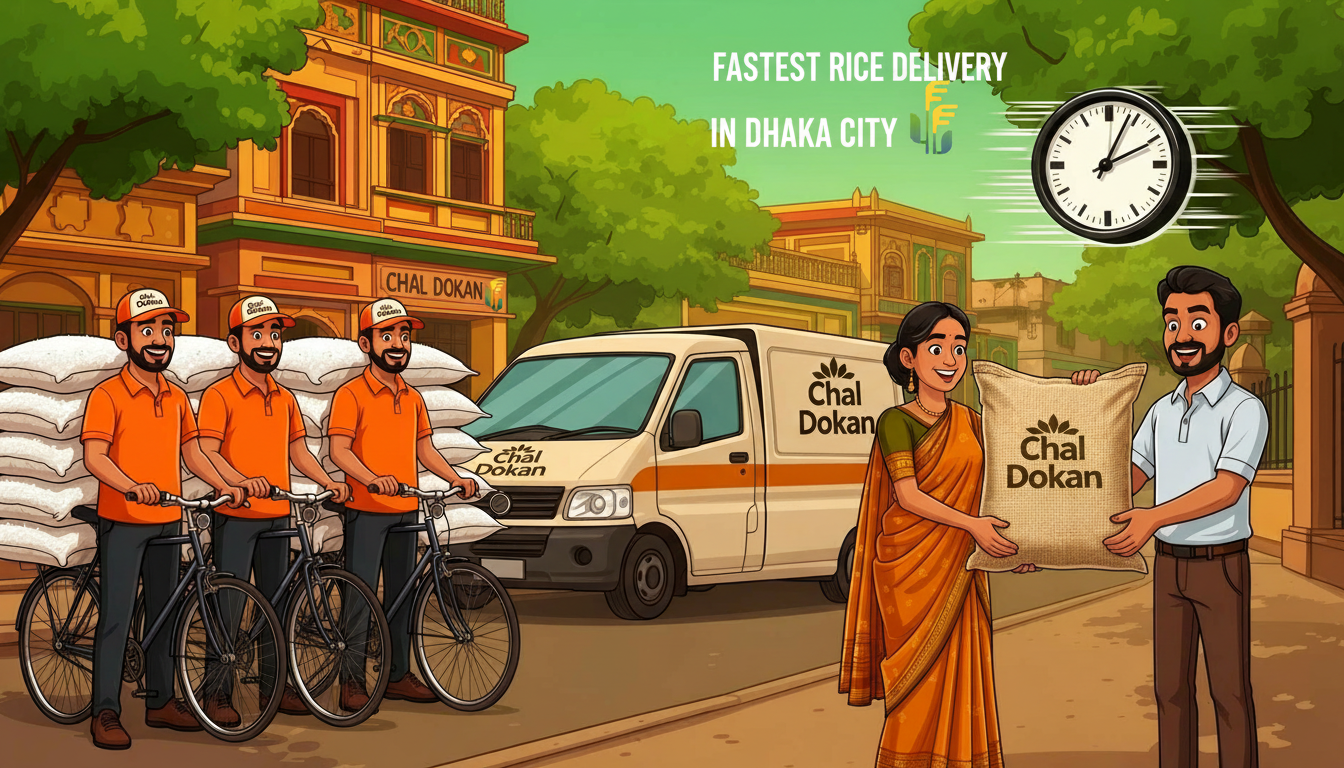
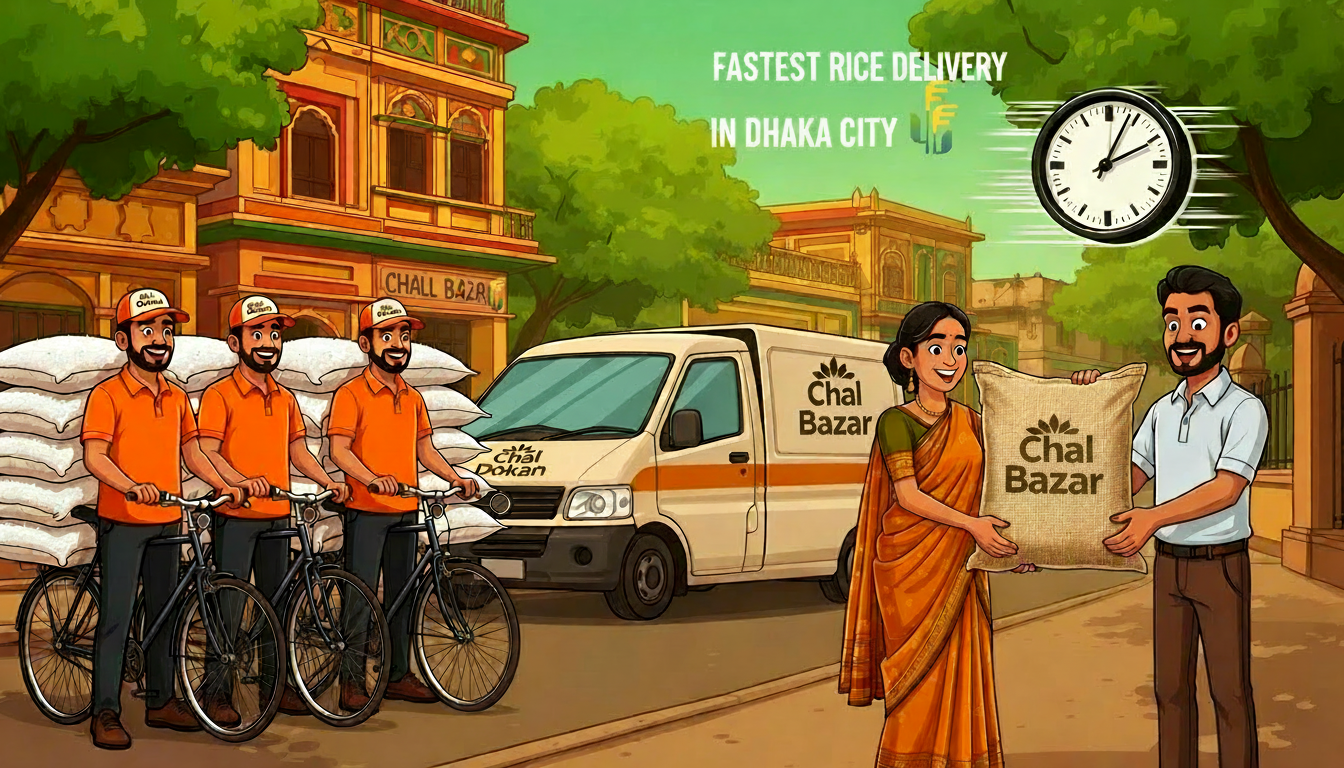
Changes

diff --git a/index.html b/index.html
@@ -4,9 +4,9 @@
     <meta charset="UTF-8" />
     <meta name="viewport" content="width=device-width, initial-scale=1.0" />
     <!-- TODO: Set the document title to the name of your application -->
-    <title>চাল দোকান - সেরা মানের চাল</title>
-    <meta name="description" content="চাল দোকান - ঢাকায় সেরা মানের চাল সরাসরি আপনার ঘরে। দ্রুত ডেলিভারি।">
-    <meta name="author" content="চাল দোকান" />
+    <title>চাল বাজার - সেরা মানের চাল</title>
+    <meta name="description" content="চাল বাজার - ঢাকায় সেরা মানের চাল সরাসরি আপনার ঘরে। দ্রুত ডেলিভারি।">
+    <meta name="author" content="চাল বাজার" />
     <meta name="mobile-web-app-capable" content="yes" />
     <meta name="apple-mobile-web-app-capable" content="yes" />
     <meta name="apple-mobile-web-app-status-bar-style" content="default" />
@@ -24,10 +24,10 @@
   
   
   
-  <meta property="og:title" content="চাল দোকান - সেরা মানের চাল">
-  <meta name="twitter:title" content="চাল দোকান - সেরা মানের চাল">
-  <meta property="og:description" content="চাল দোকান - ঢাকায় সেরা মানের চাল সরাসরি আপনার ঘরে। দ্রুত ডেলিভারি।">
-  <meta name="twitter:description" content="চাল দোকান - ঢাকায় সেরা মানের চাল সরাসরি আপনার ঘরে। দ্রুত ডেলিভারি।">
+  <meta property="og:title" content="চাল বাজার - সেরা মানের চাল">
+  <meta name="twitter:title" content="চাল বাজার - সেরা মানের চাল">
+  <meta property="og:description" content="চাল বাজার - ঢাকায় সেরা মানের চাল সরাসরি আপনার ঘরে। দ্রুত ডেলিভারি।">
+  <meta name="twitter:description" content="চাল বাজার - ঢাকায় সেরা মানের চাল সরাসরি আপনার ঘরে। দ্রুত ডেলিভারি।">
 </head>
 
   <body>

diff --git a/src/components/Footer.tsx b/src/components/Footer.tsx
@@ -21,7 +21,7 @@ const Footer = () => {
       <div className="container py-10">
         <div className="grid gap-8 md:grid-cols-3">
           <div>
-            <h3 className="text-lg font-bold text-primary mb-3">🌾 চাল দোকান</h3>
+            <h3 className="text-lg font-bold text-primary mb-3">🌾 চাল বাজার</h3>
             <p className="text-sm text-muted-foreground">
               ঢাকা শহরে বিশ্বস্ত চাল সরবরাহকারী। সেরা মানের চাল সরাসরি আপনার দোরগোড়ায়।
             </p>
@@ -54,7 +54,7 @@ const Footer = () => {
           </div>
         </div>
         <div className="mt-8 border-t pt-6 text-center text-sm text-muted-foreground">
-          © ২০২৬ চাল দোকান। সর্বস্বত্ব সংরক্ষিত।
+          © ২০২৬ চাল বাজার। সর্বস্বত্ব সংরক্ষিত।
         </div>
       </div>
     </footer>

diff --git a/src/pages/Auth.tsx b/src/pages/Auth.tsx
@@ -83,7 +83,7 @@ const Auth = () => {
     <div className="container py-16 max-w-md">
       <div className="rounded-xl border bg-card p-8">
         <h1 className="text-2xl font-bold text-center mb-6">
-          {isLogin ? 'চাল দোকানে লগইন করুন' : 'অ্যাকাউন্ট তৈরি করুন'}
+          {isLogin ? 'চাল বাজারে লগইন করুন' : 'অ্যাকাউন্ট তৈরি করুন'}
         </h1>
 
         {/* Auth method toggle */}

diff --git a/src/components/Navbar.tsx b/src/components/Navbar.tsx
@@ -31,7 +31,7 @@ const Navbar = () => {
       <div className="container flex h-16 items-center justify-between">
         <Link to="/" className="flex items-center gap-2">
           <span className="text-2xl font-bold text-primary">🌾</span>
-          <span className="text-xl font-bold text-primary">চাল দোকান</span>
+          <span className="text-xl font-bold text-primary">চাল বাজার</span>
         </Link>
 
         {/* Desktop nav */}

diff --git a/src/pages/Index.tsx b/src/pages/Index.tsx
@@ -50,7 +50,7 @@ const Index = () => {
       <section className="overflow-hidden">
         <img
           src={heroImage}
-          alt="চাল দোকান হিরো"
+          alt="চাল বাজার হিরো"
           className="w-full max-h-[420px] object-cover"
         />
         <div className="bg-[#1a4a2e] py-6 md:py-8">
